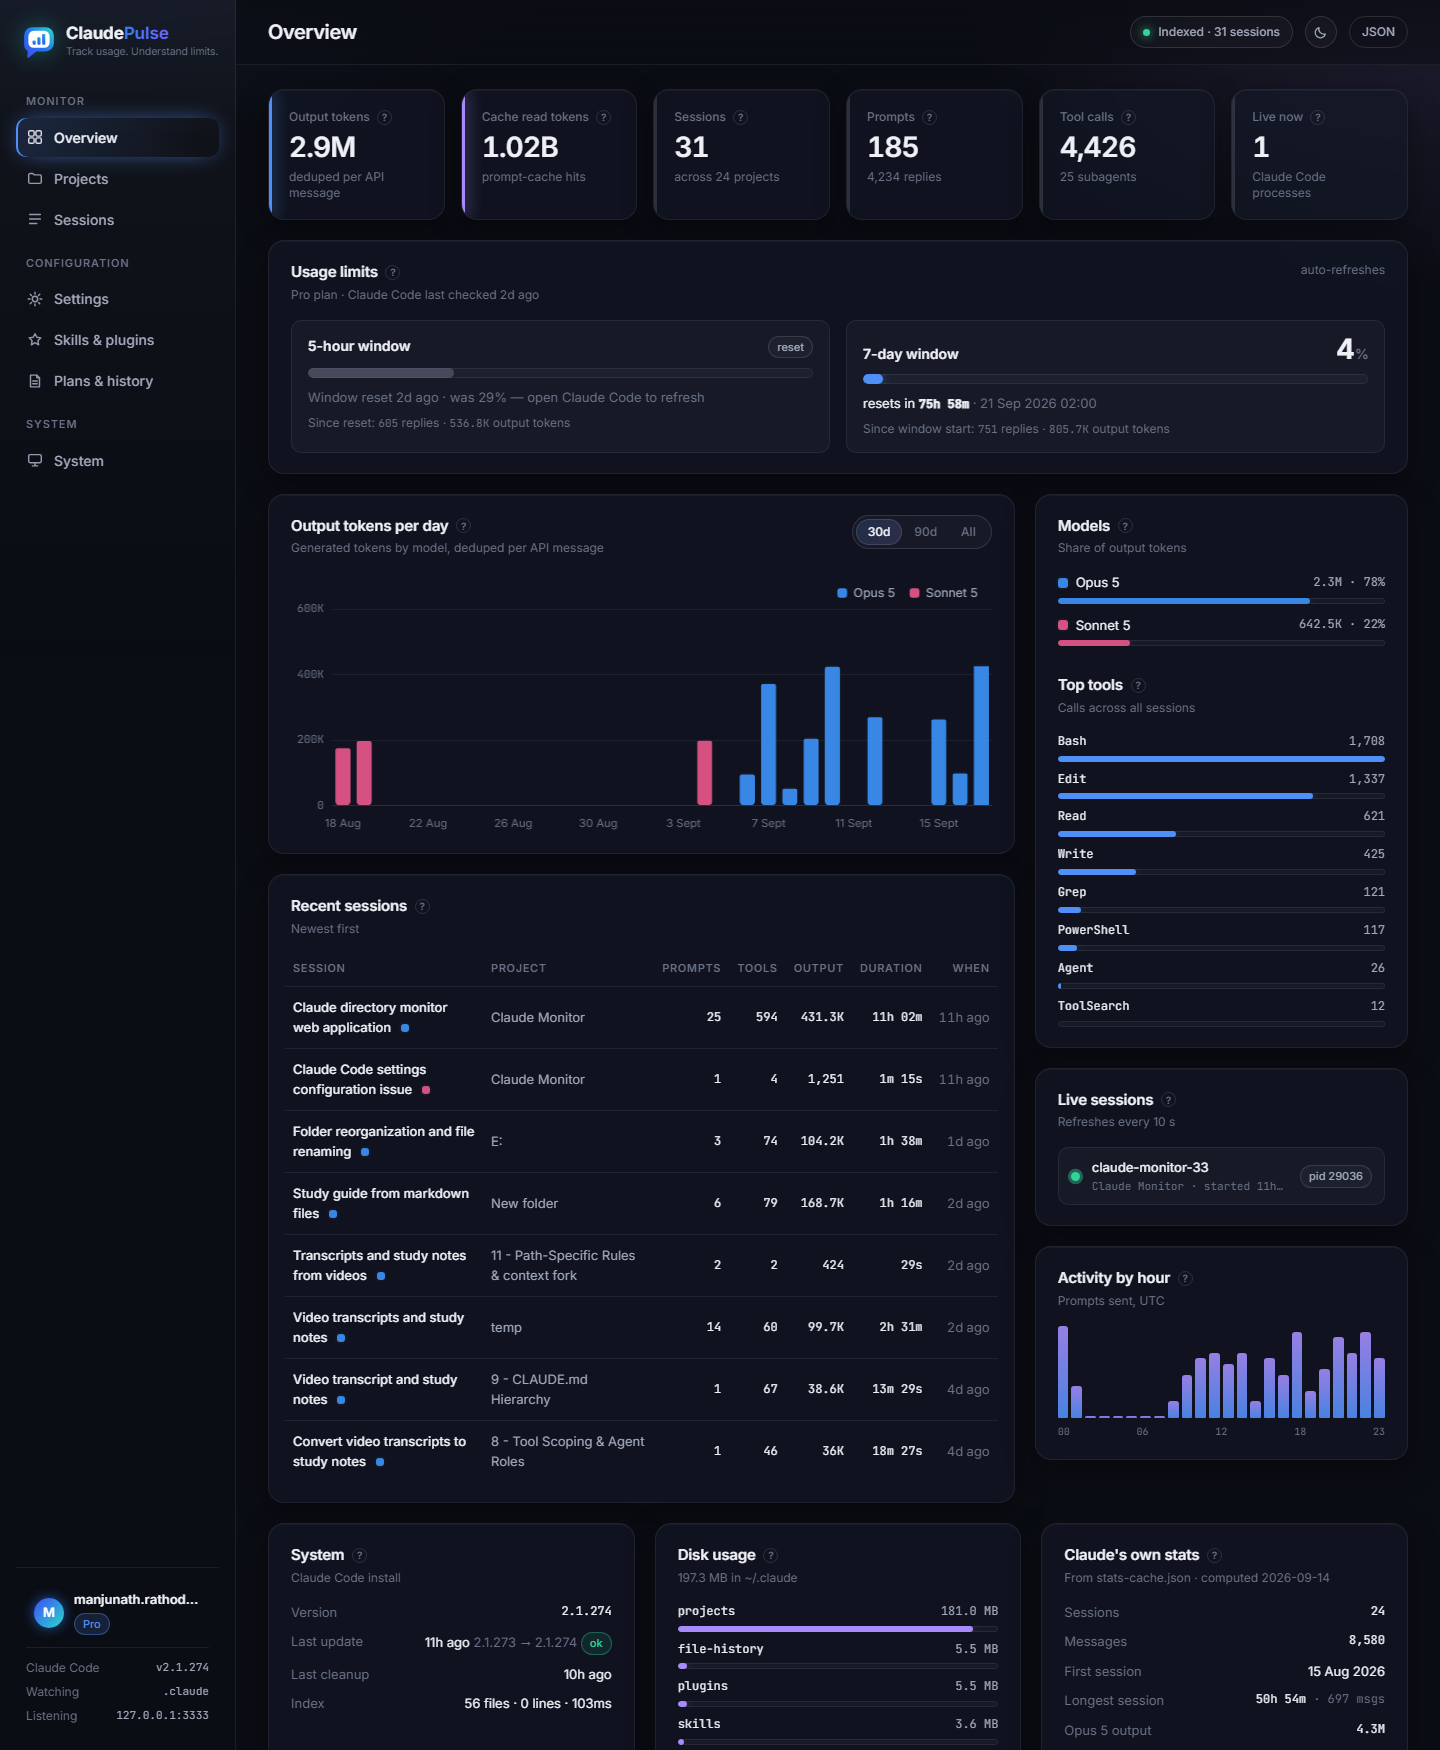
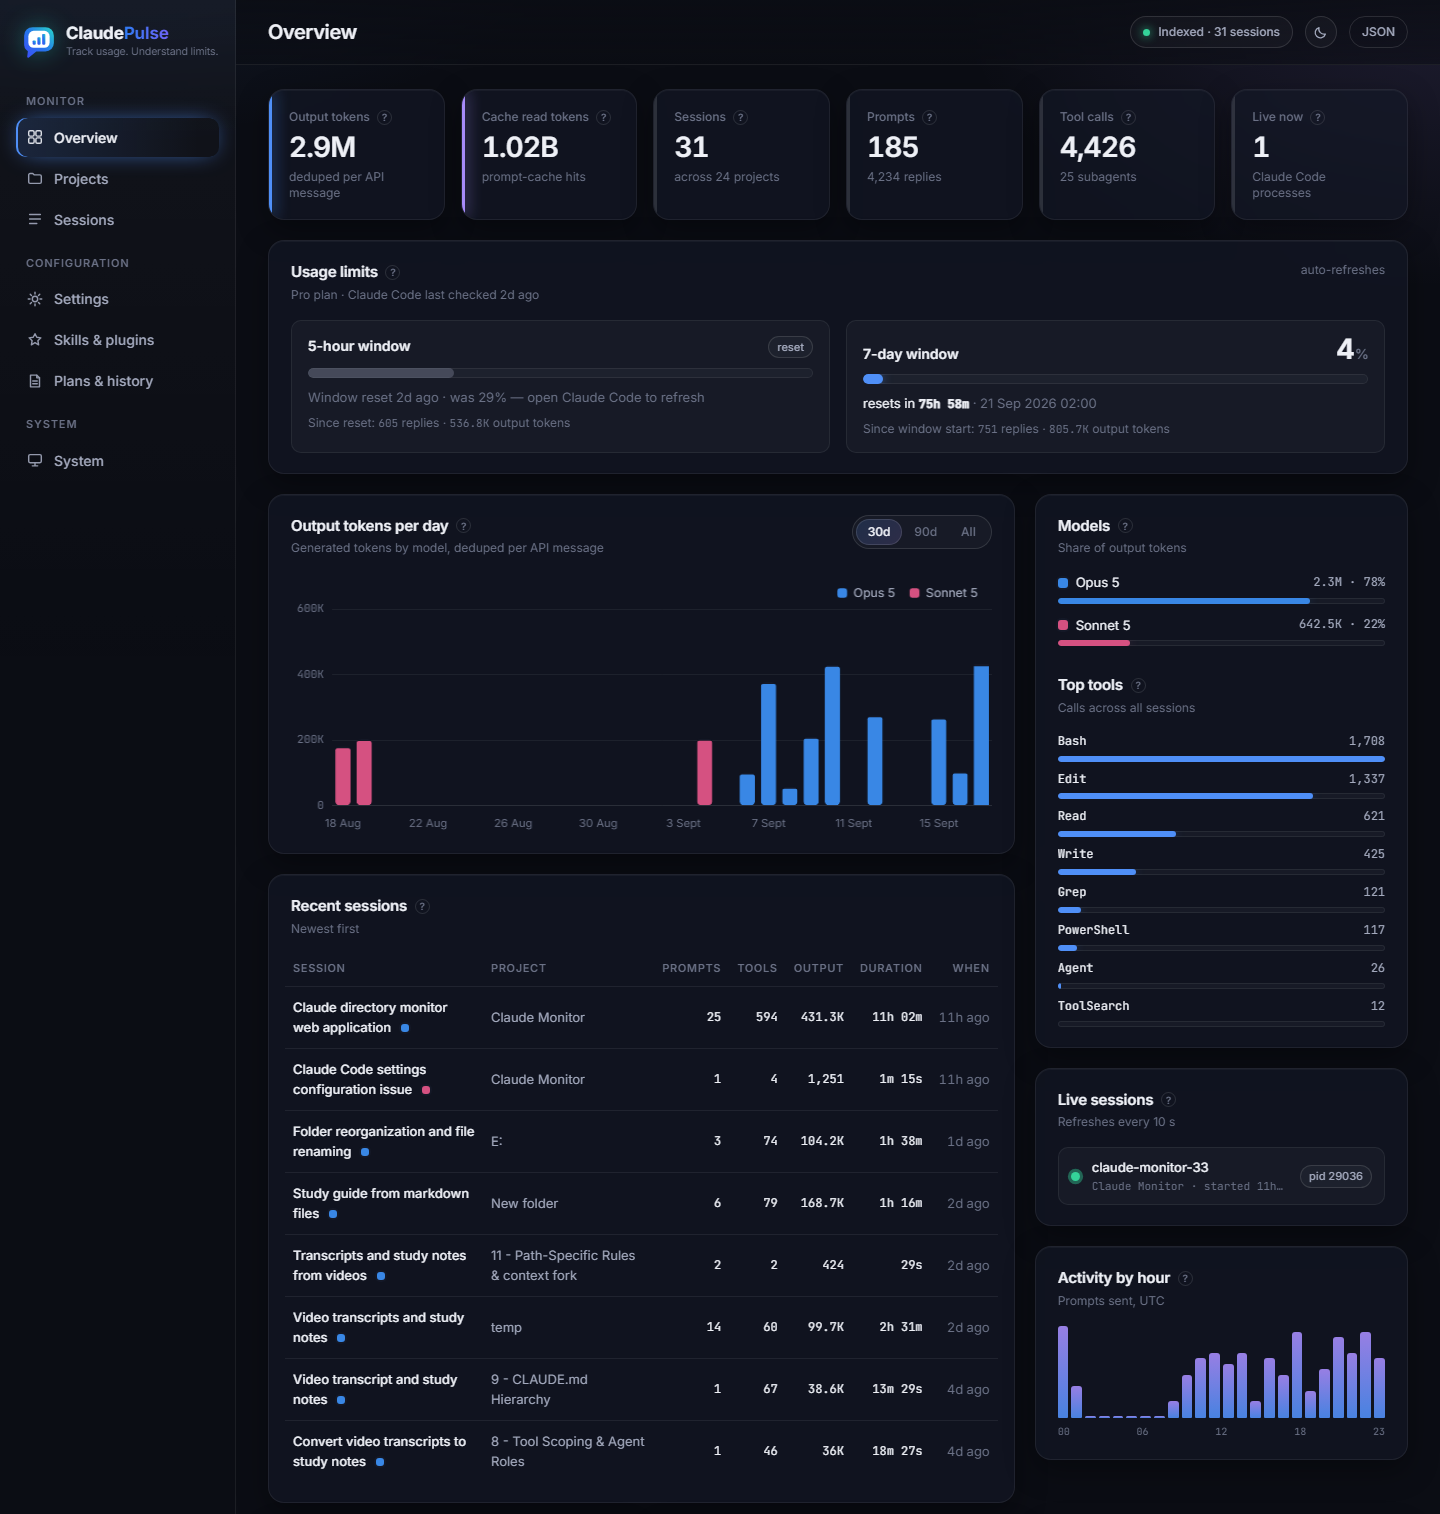
README: keep only the Overview screenshots
Drop the per-page captures that showed the local username, home
directory and project paths; keep the two Overview captures (dark and
light) which are cropped to exclude the account card.

diff --git a/README.md b/README.md
@@ -14,7 +14,7 @@ before storing them.
 
 ## Screenshots
 
-**Overview** — KPIs, usage limits with live reset countdowns, tokens per day, models, tools, recent sessions, live processes, system status.
+**Overview** — KPIs, usage limits with live reset countdowns, output tokens per day, model share, top tools, recent sessions, live processes and activity by hour.
 
 ![Overview](docs/screenshots/overview.png)
 
@@ -24,20 +24,7 @@ before storing them.
 ![Overview, light theme](docs/screenshots/overview-light.png)
 </details>
 
-**Session detail** — timeline, subagents, model share, tool breakdown.
-
-![Session detail](docs/screenshots/session.png)
-
-<details>
-<summary><b>More pages</b> — Sessions, Projects, Settings, Skills & plugins, Plans & history, System</summary>
-
-![Sessions](docs/screenshots/sessions.png)
-![Projects](docs/screenshots/projects.png)
-![Settings](docs/screenshots/settings.png)
-![Skills and plugins](docs/screenshots/skills.png)
-![Plans and history](docs/screenshots/plans.png)
-![System](docs/screenshots/system.png)
-</details>
+Every other page (Projects, Sessions, Session detail, Settings, Skills & plugins, Plans & history, System) follows the same layout — run the app to see them against your own data.
 
 ## Quick start
 
